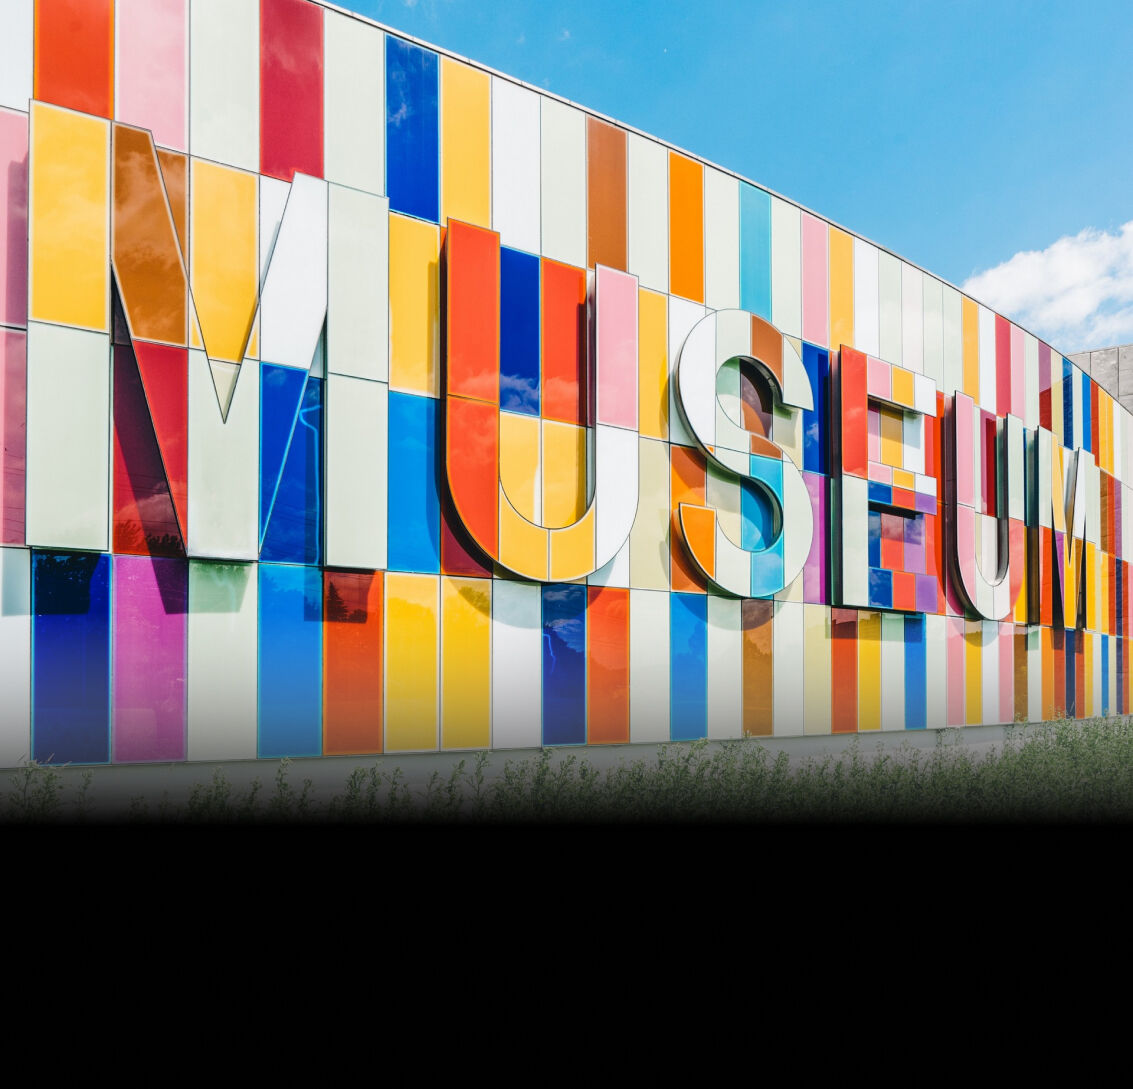
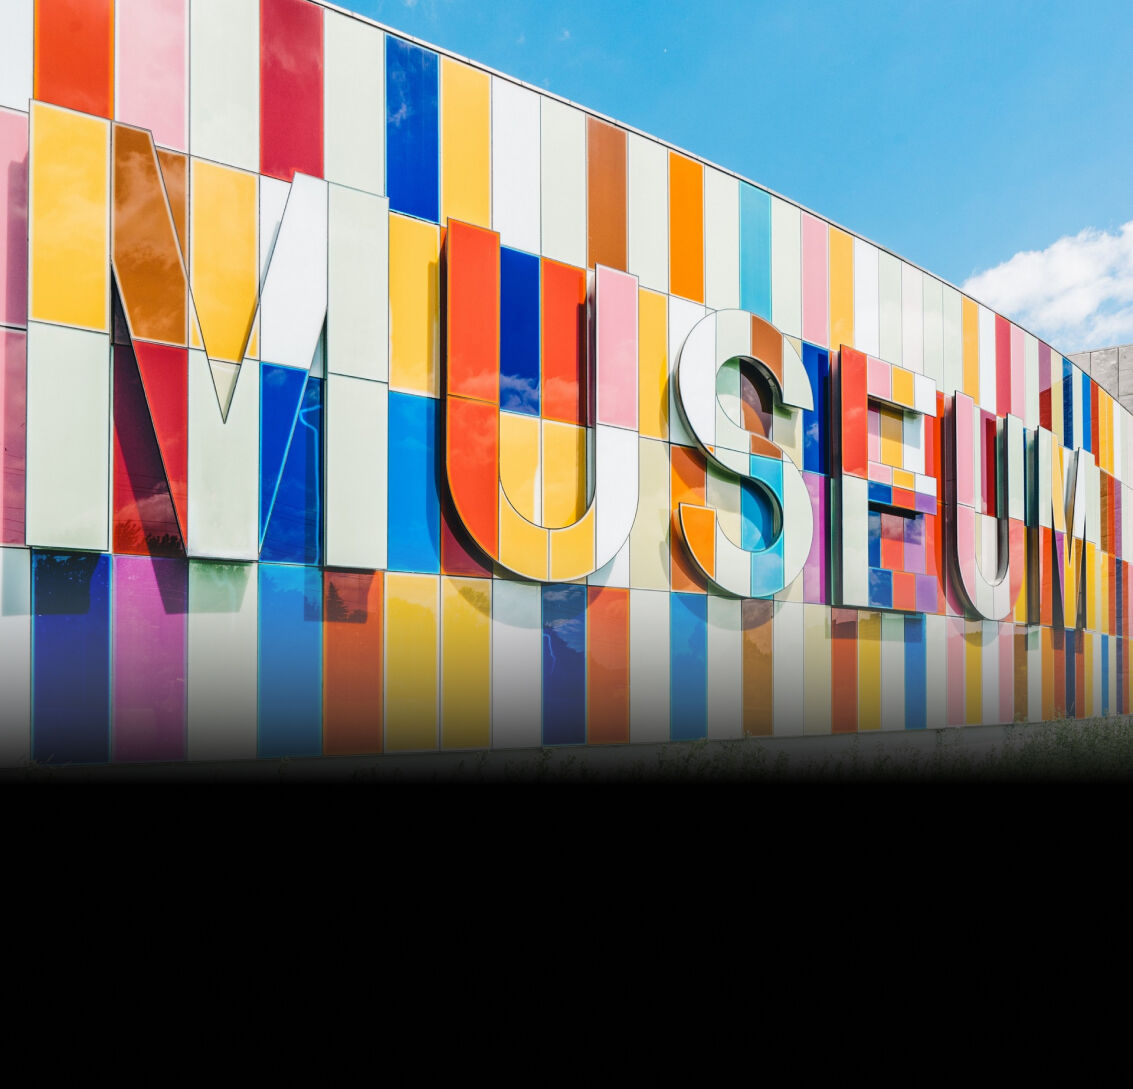
test

Changed region(s): [[0.0, 0.4995, 1.0, 0.7493], [0.4325, 0.4995, 0.4634, 0.5308]]

diff --git a/CSS/styles.css b/CSS/styles.css
@@ -1370,10 +1370,10 @@ textarea,
 
   .museum-ad {
     background-image: url(/Assets/museum-ad_desktop.jpg);
-    background-size: 100%;
-    background-position-x: left;
-    background-position-y: center;
-    height: 900px;
+    background-size: cover;
+    background-position-x: center;
+    background-position-y: bottom;
+    height: 800px;
   }
 
   .cosmology-wrap img {
